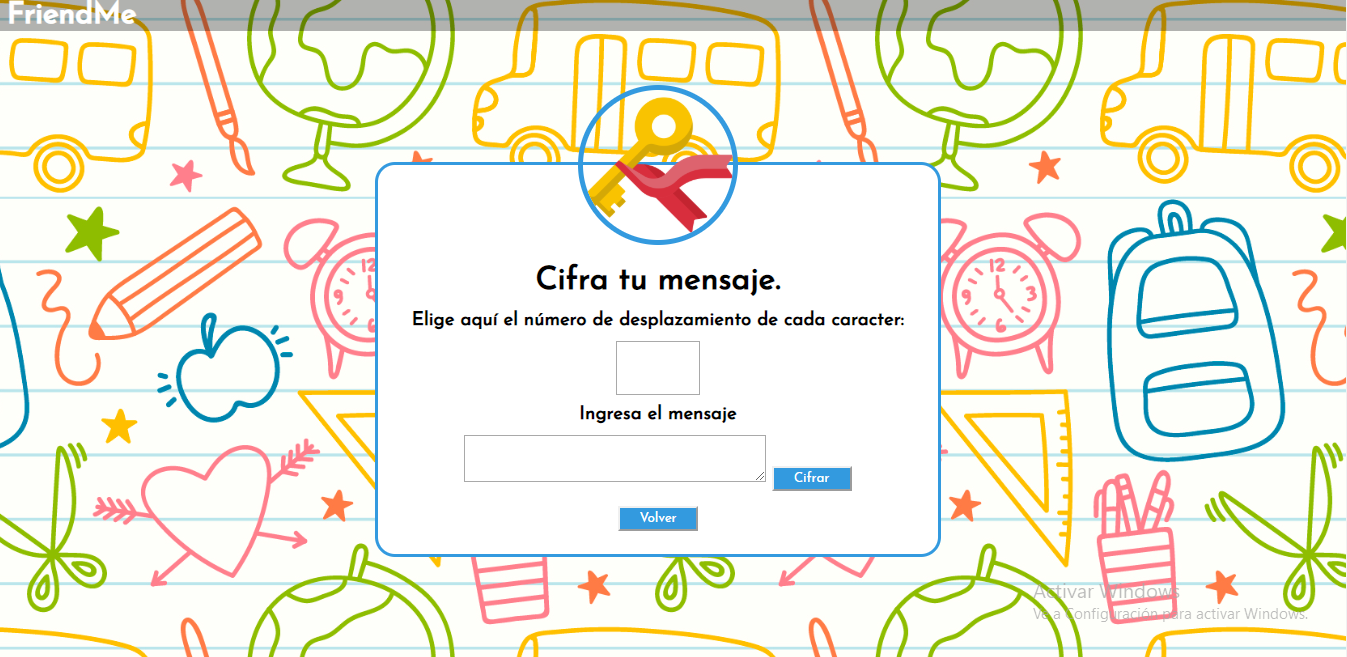
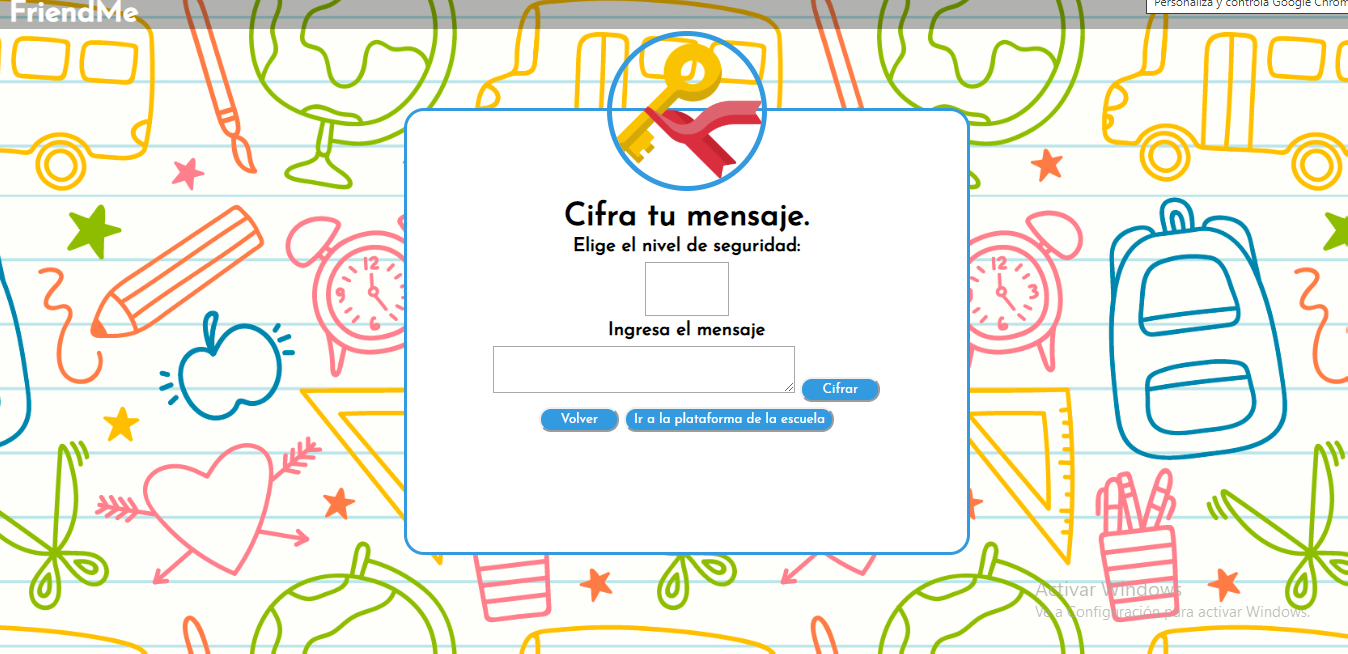
natyst_26@hotmail.com

diff --git a/src/index.js b/src/index.js
@@ -7,7 +7,7 @@ botonCifrado.addEventListener("click",() =>{
   let valorMensaje= document.getElementById("textMensaje").value;
   let valorNumero=document.getElementById("inputNumero").value;
   let mensajeCifrado=cipher.encode(valorNumero,valorMensaje);
-  console.log(mensajeCifrado);
+  
 
   document.getElementById("respuestaEscrita").innerHTML="En un lenguaje secreto, "+valorMensaje+" significa "+mensajeCifrado
 });
@@ -21,7 +21,7 @@ botonDescifrar.addEventListener("click",()=>{
   let valorMensaje2=document.getElementById("textMensaje2").value;
   let valorNumero2=document.getElementById("inputNumero2").value;
   let mensajeDescifrado=cipher.decode(valorNumero2,valorMensaje2);
-  console.log(mensajeDescifrado)
+  
   document.getElementById("respuestaEscrita2").innerHTML="Descifrado "+ valorMensaje2+", significa: "+ mensajeDescifrado
 
 });

diff --git a/README.md b/README.md
@@ -167,18 +167,27 @@ Estos puntos los presentarás en el `README.md`.
 * FriendMe: Una plataforma segura para niños y adolescentes valientes que se paran y denuncian el Bullying o Cyberbullying.
 * Según el MINEDU, al día, 27 niños peruanos son víctimas de violencia escolar. Tras ver esta problemática y aprovechar las herramientas tecnológicas. Se creo una appweb, donde los alumnos podran cifrar y descrifrar mensajes de ayuda en caso de Bullying. Esta appweb estara enlazada con la plataforma de la escuela, que conecta a los profesores y padres de familia.
 * Imagen final de mi proyecto:
-  1.[imagen1](imagenes/pagina 1.png)
-  2.[imagen2](imagenes/pagina 2.png)
-  3.[imagen3](imagenes/pagina 3.png)
+  [imagen1](imagenes/pagina 1.png)
+  [imagen2](imagenes/pagina 2.png)
+  [imagen3](imagenes/pagina 3.png)
 * Investigación UX:
   1. Los usuarios son:
       -Alumnos victima de Bullying o Cyberbullying.
       -Alumnos testigo de Bullying o Cyberbullying.
       -Profesores o autoridades de colegio, que reciben un mensaje cifrado y usan la app para descifrar el mensaje de ayuda del alumno.
   2. Yo me enfoque más en los estudiantes, debido que los profesores son como un usuario ocasional. Basada en las experiencias que pude observar en la secundaria, aquellos alumnos que sufren bullying, nunca desean hablar del tema y detestan que otras se metan en sus asuntos. Los adolescentes, sienten que el hecho de que alguien les haga Bullying, es humillante y vergonzoso, por eso callan. Y si existe un amigo que desea hablar por el, intentan por todo modo no dejar que hablen. Es por ello que el proyecto de cifrado me parecio excelente, ya que es un medio por el cual, los alumnos confienzan sus miedos, pero en un mensaje secreto.
-  3. Luego colocarás la foto de tu primer prototipo en papel.
-  4. Agregar un resumen del feedback recibido indicando las mejoras a realizar.
-  5. Imagen del prototipo final.
+  3. Foto de tu primer prototipo en papel:
+    [imagen4](imagenes/prototipo papel 1 y 2.jpg)
+    [imagen5](imagenes/prototipo papel 3.jpg)
+  4. Feedback:
+      -Usa una imagen en el fondo
+      -Pon un boton para ir a la pagina principal, ya que el mensaje debe ser enviado ahí.
+      -El boton volver debe estar abajo del mensaje Cifrado/Descifrado
+      -Elige un nombre para el proyecto.(Antes solo se llamaba Cifrado de Ayuda, es que no habia nombre :c)
+      -Pon el nombre del proyecto en el header.
+  5. Imagen del prototipo final:
+    [imagen6](imagenes/figma ultimo prototipo.png)
+
 
 #### Visualmente (HTML y CSS)
 
